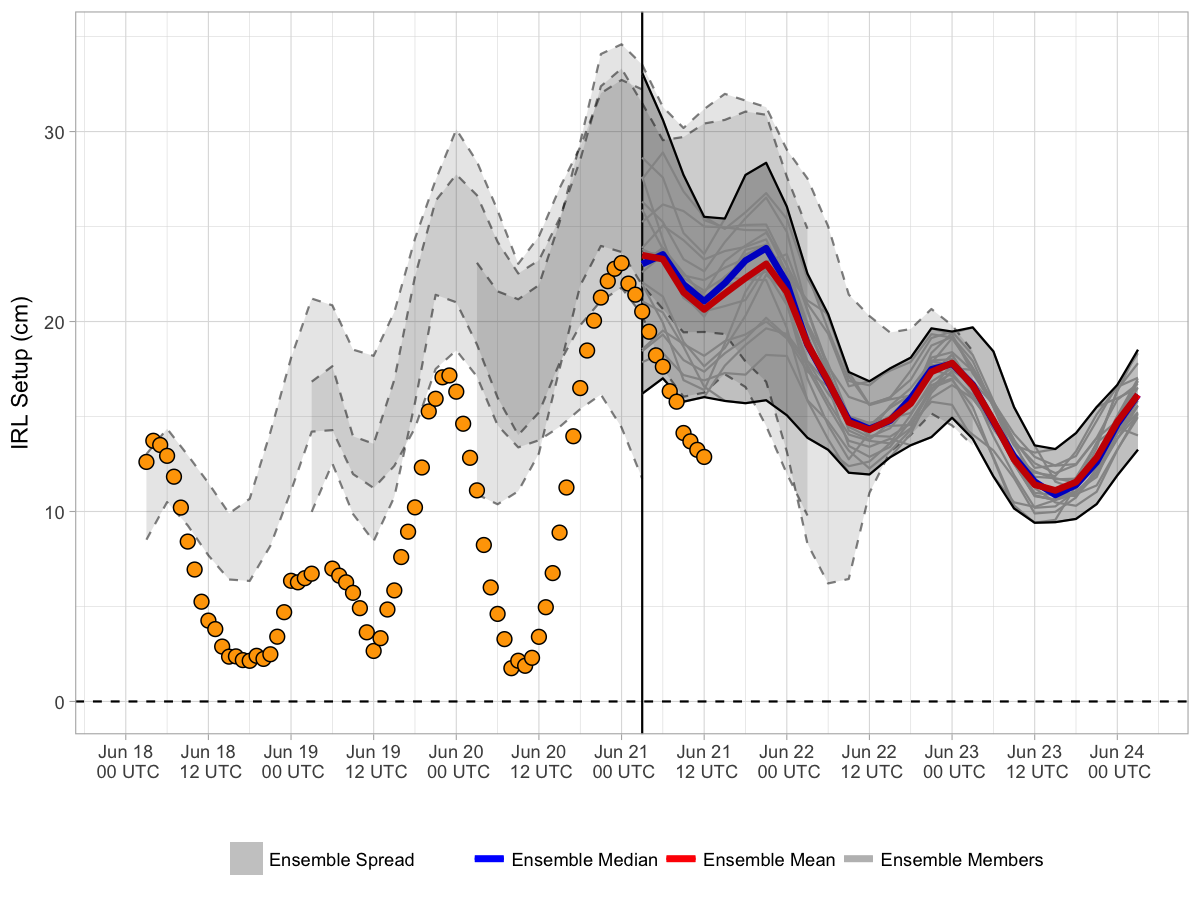
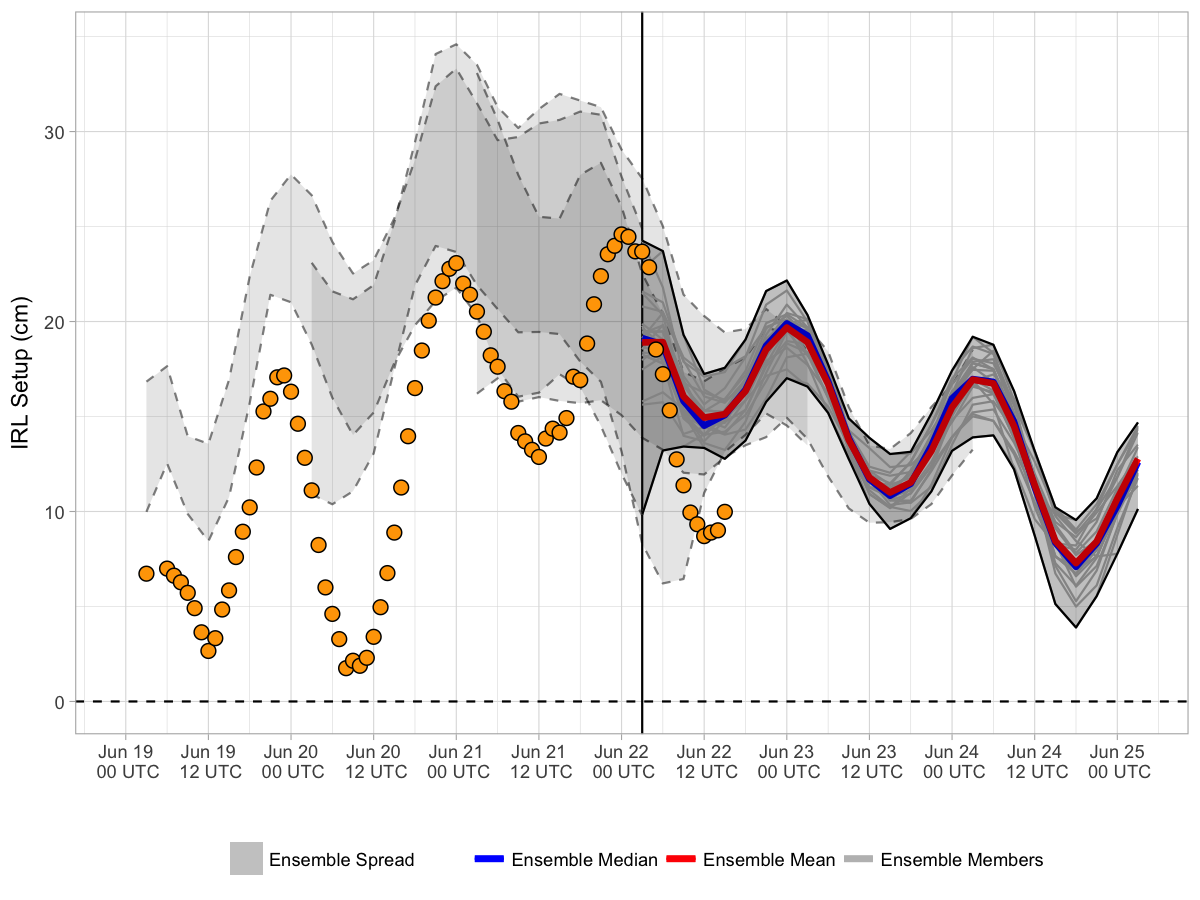
20170622 forecast update

diff --git a/docs/index.md b/docs/index.md
@@ -3,7 +3,7 @@ Current Forecast
 
 [![](img/raw_setup.png)](https://bhlmn.github.io/IRLSetup/img/raw_setup.png)
 
-> Forecast valid 2017-06-21 08:42:22.
+> Forecast valid 2017-06-22 11:30:29.
 
 Explanation
 -----------
@@ -15,7 +15,7 @@ water elevation in the northern IRL (near Titusville), and negative
 setup indicates the increase elevation in the southern IRL (near
 Sebastian). The x-axis displays the date and time in UTC. The solid
 vertical line represents the beginning of the most recent ensemble
-forecast (currently 2017-06-20 18:00:00). For this most recent forecast,
+forecast (currently 2017-06-21 18:00:00). For this most recent forecast,
 the ensemble spread (grey shading) is bound by solid black lines, with
 individual members represented by faint grey lines. The ensemble mean
 and median for this are represented by the red and blue curves,
